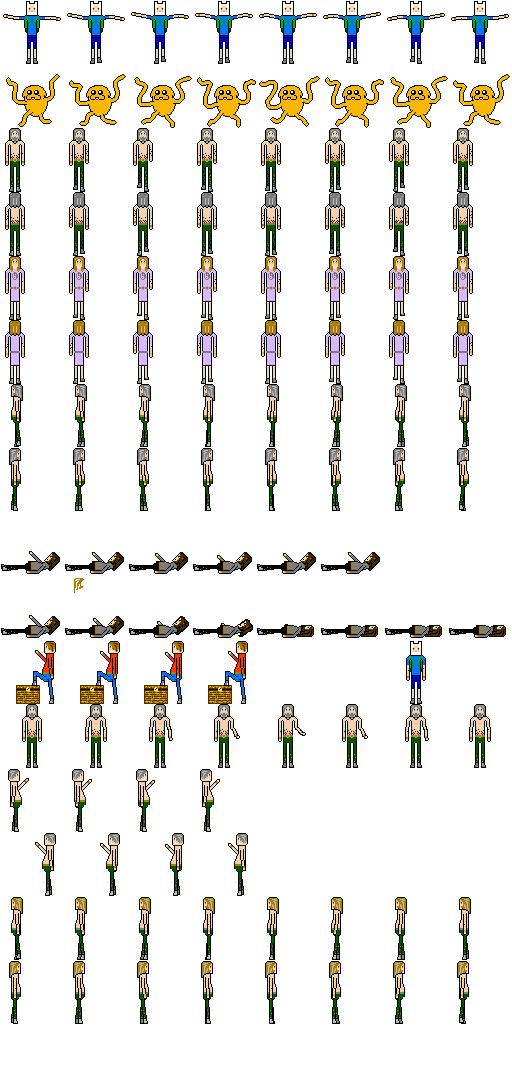
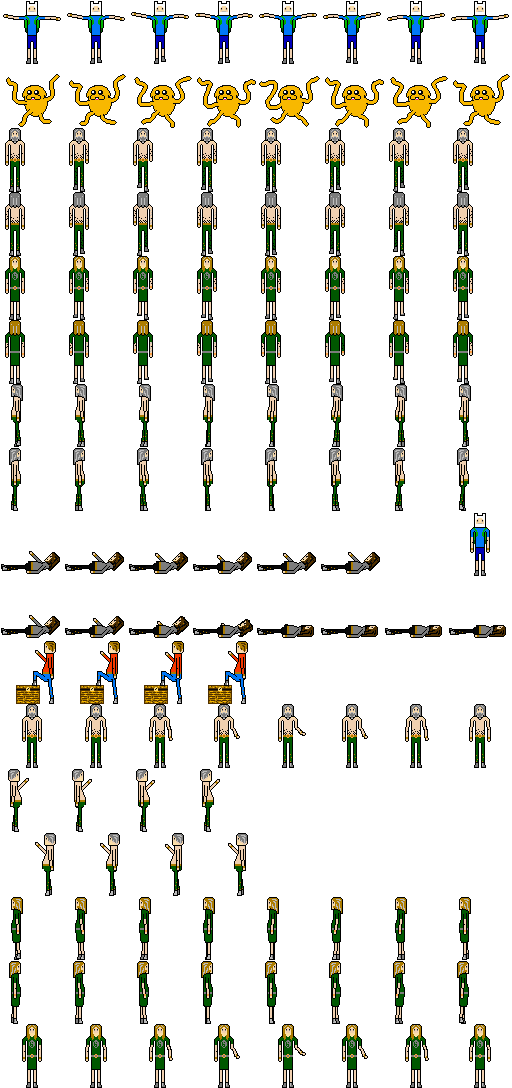
more sprites

diff --git a/november/levelBuilder.js b/november/levelBuilder.js
@@ -163,11 +163,18 @@ function addRandomHumans(level, amount) {
   let count = 10
   for (let i = 0; i < amount; i++) {
     otherNPCs = level.newSpriteCollection('NPC' + String(count + i), random(), random(), 1);
-    // npc1.addAnimation(8, splitSheet(G.loaders['humanoid1'], 64, 7, 0, 8), 32, 0, 0, 1);
-    otherNPCs.addAnimation(8, splitSheet(G.loaders['humanoid1'], 64, 7, 0, 8), 'right');
-    otherNPCs.addAnimation(8, splitSheet(G.loaders['humanoid1'], 64, 6, 0, 8), 'left');
-    otherNPCs.addAnimation(8, splitSheet(G.loaders['humanoid1'], 64, 3, 0, 8), 'up');
-    otherNPCs.addAnimation(8, splitSheet(G.loaders['humanoid1'], 64, 2, 0, 8), 'down');
+    if (random() > 0.5) {
+      otherNPCs.addAnimation(8, splitSheet(G.loaders['humanoid1'], 64, 7, 0, 8), 'right');
+      otherNPCs.addAnimation(8, splitSheet(G.loaders['humanoid1'], 64, 6, 0, 8), 'left');
+      otherNPCs.addAnimation(8, splitSheet(G.loaders['humanoid1'], 64, 3, 0, 8), 'up');
+      otherNPCs.addAnimation(8, splitSheet(G.loaders['humanoid1'], 64, 2, 0, 8), 'down');
+    } else {
+      otherNPCs.addAnimation(8, splitSheet(G.loaders['humanoid1'], 64, 15, 0, 8), 'right');
+      otherNPCs.addAnimation(8, splitSheet(G.loaders['humanoid1'], 64, 14, 0, 8), 'left');
+      otherNPCs.addAnimation(8, splitSheet(G.loaders['humanoid1'], 64, 5, 0, 8), 'up');
+      otherNPCs.addAnimation(8, splitSheet(G.loaders['humanoid1'], 64, 4, 0, 8), 'down');
+    }
+
     otherNPCs.setCollectionRate(0.4);
     otherNPCs.goal = 'food';
     otherNPCs.update();
@@ -289,7 +296,7 @@ function level4() {
   level.attachBGSetup(snowArt);
   let npc1 = level.newSpriteCollection('NPC1', 0.5, 0.3);
   npc1.setCollectionRate(0.4);
-  npc1.addAnimation(8, splitSheet(G.loaders['humanoid1'], 64, 11, 0, 8), 32, 0, 0, 8);
+  npc1.addAnimation(8, splitSheet(G.loaders['humanoid1'], 64, 16, 0, 8), 32, 0, 0, 8);
   npc1.update();
   npc1.play();
   // addFinAndJake(level);
@@ -485,6 +492,7 @@ function level9() {
   dialog.addDialogEvent('PC', 'Is anyone there?.');
   dialog.addDialogEvent('PC', 'Helloooooo!');
   dialog.addDialogEvent('PC', G.player.companion.name + '?');
+  dialog.addDialogEvent('PC', 'I should head to the next town. Maybe someone knows something.');
 
   return level;
 }
@@ -500,7 +508,7 @@ function level10() {
   npc1.play();
   let npc2 = level.newSpriteCollection('NPC2', 0.3, 0.4);
   npc2.setCollectionRate(0.4);
-  npc2.addAnimation(8, splitSheet(G.loaders['humanoid1'], 64, 11, 0, 8), 32, 0, 0, 8);
+  npc2.addAnimation(8, splitSheet(G.loaders['humanoid1'], 64, 16, 0, 8), 32, 0, 0, 8);
   npc2.update();
   npc2.play();
   addRandomHumans(level, 10);
@@ -575,7 +583,6 @@ function level13() {
   dialog.updateCoords('NPC2', npc2.current);
   dialog.addDialogEvent('PC', 'I\'m back');
   dialog.addDialogEvent('NPC1', 'With medicine?');
-  G.player.addItem('medicine', 10);
   if (G.player.inventory.hasItems('medicine') == true) {
     let parEvent = dialog.addDialogEvent('PC', '');
     dialog.addOption(parEvent, 'Yes. Here.', function () {return G.player.removeMedicine();}, returnTrue);
@@ -652,7 +659,6 @@ function level15() {
   dialog.addDialogEvent('PC', 'I know ' + G.player.companion.name + '.');
   dialog.addDialogEvent('NPC1', 'Yes yes. I guess we could trade.');
   let parEvent = dialog.addDialogEvent('PC', '');
-  G.player.addItem('food');
   dialog.addOption(parEvent, 'Everything I have. Take it.', function() { level.setSpritesToAttack(false); return G.player.emptyInventory()}, function () {return G.player.hasAnything();});
   let ok = dialog.addChildDialogEvent(parEvent, 'NPC1', 'Excellent.');
   ok = dialog.addChildDialogEvent(ok, 'PC', G.player.companion.name + '!');
@@ -710,7 +716,6 @@ function testLevel() {
   level.attachBGSetup(testLevelArt);
   level.attachBGSetup(grassArt);
   // addPuddle(level, 0.3, 0.4);
-  G.player.addItem('boot');
   addSleepyPossum(level, 0.5, 0.5);
 
   // G.player.hasCompanion = true;

diff --git a/november/source.js b/november/source.js
@@ -107,10 +107,10 @@ function setupGame() {
   G.player.emptyInventory();
   G.player.backupInventory();
   // LEVEL SETUP
-  G.levelSetup.push(level0);
-  G.levelSetup.push(level1);
-  G.levelSetup.push(level2);
-  G.levelSetup.push(level3);
+  // G.levelSetup.push(level0);
+  // G.levelSetup.push(level1);
+  // G.levelSetup.push(level2);
+  // G.levelSetup.push(level3);
   G.levelSetup.push(level4);
   G.levelSetup.push(level5);
   G.levelSetup.push(level6);
